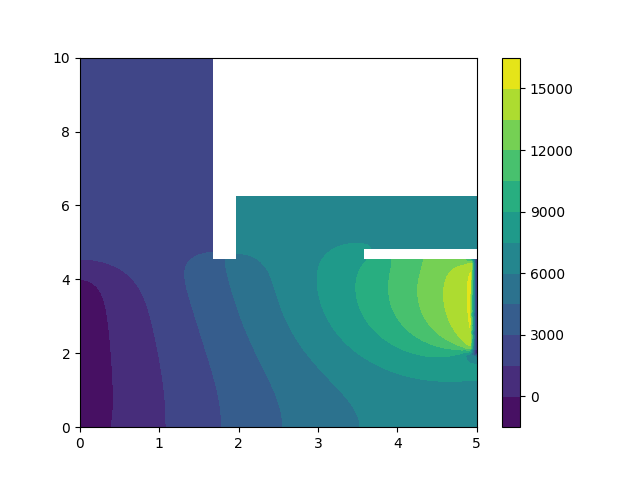
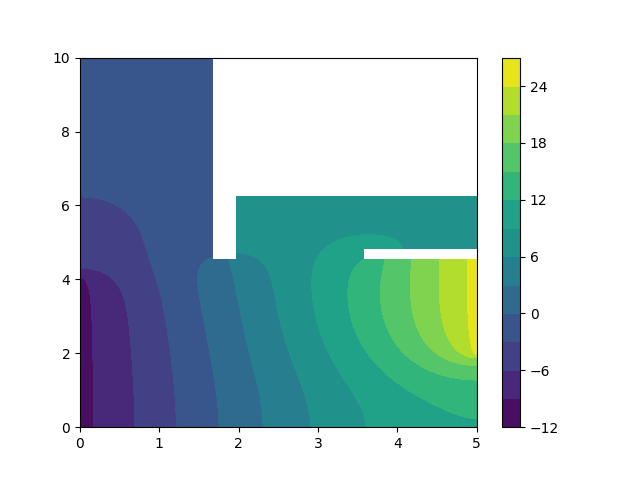
add parser

diff --git a/resolution.py b/resolution.py
@@ -1,5 +1,18 @@
 """
 @credits : Apavou Clément & Zucker Arthur
+
+Usage:
+  resolution.py <name> [options]
+  resolution.py appartement  
+  resolution.py config_1
+  resolution.py config_2
+  resolution.py config_3 
+
+Args: 
+  <name>        nom de la resolution que l'on veut lancer : appartement/config_1/config_2/config_3
+
+Options:
+  -h           Montrer l'en-tête
 """
 
 import gmsh
@@ -9,6 +22,7 @@ from Classe.Matrice import *
 from Classe.triplets import *
 from scipy.sparse.linalg import spsolve
 import matplotlib.pyplot as plt
+import docopt
 
 def resolution(path, save_path):
 
@@ -50,7 +64,7 @@ def resolution(path, save_path):
   U = spsolve(A, B) # solve avec scipy
 
   # Visualisation
-  print("Visualisation en cours ...")
+  print("Construction de la visualisation en cours ...")
   x = [pt.x for pt in msh.points]
   y = [pt.y for pt in msh.points]
   connectivity=[]
@@ -60,12 +74,15 @@ def resolution(path, save_path):
   plt.tricontourf(x, y, connectivity, U, 12)
   plt.colorbar()
   plt.savefig(save_path)
-
+  plt.show()
+  
   gmsh.finalize()
 
-# Appartement de l'énoncé
-resolution(path = "Immobilier/appartement.msh", save_path = "Figures/appartement.png")
+args = docopt.docopt(__doc__)
+name = args['<name>']
 
-# Appartement d'Arthur (3 configurations)
-for i in range(1,3):
-  resolution(path = "Immobilier/appartement_arthur/fichier_msh/config_"+str(i+1)+".msh" , save_path = "Figures/config_"+str(i+1)+".png")
+# Appartement de l'énoncé
+if name == "appartement":
+  resolution(path = "Immobilier/appartement.msh", save_path = "Figures/appartement.png")
+else: # Appartement d'Arthur
+  resolution(path = "Immobilier/appartement_arthur/fichier_msh/"+name+".msh" , save_path = "Figures/"+name+".png")

diff --git a/Classe/Matrice.py b/Classe/Matrice.py
@@ -134,21 +134,19 @@ def Dirichlet(msh, physical_tag, g, T, B):
     Applique la condition de Dirichlet à la matrice B et à la matrice T qui reprèsente A
     dans le système AU = B
     """
-    Indexes_to_nullify = []
+    Indexes_points = []
     with alive_bar(len(msh.segments)) as bar:
         for s in msh.segments:
             if(s.tag == physical_tag):
                 for p in s.p:
-                    Indexes_to_nullify.append(p.id)
+                    Indexes_points.append(p.id)
             bar()
     
-    with alive_bar(len(Indexes_to_nullify)) as bar:
-        for i in Indexes_to_nullify:
+    with alive_bar(len(Indexes_points)) as bar:
+        for i in Indexes_points:
             for indx in range(len(T.data[0])) :
                 if(T.data[1][0][indx] == i):
                     T.data[0][indx] = 0
-                elif(T.data[1][1][indx] == i):
-                    T.data[0][indx] *= g 
             T.append(i,i,1)
             B[i] = g
             bar()

diff --git a/Classe/triplets.py b/Classe/triplets.py
@@ -1,3 +1,7 @@
+"""
+@credits : Apavou Clément & Zucker Arthur
+"""
+
 from scipy.sparse import coo_matrix
 
 class Triplets:

diff --git a/README.md b/README.md
@@ -41,6 +41,7 @@ Les librairies qui vont être installées sont:
 * numpy
 * scipy
 * matplotlib
+* docopt
 
 ##  Énoncé
 
@@ -55,7 +56,12 @@ Une condition de Neumann homogène et deux conditions de Dirichlet hétérogène
 Dans le système AU = B, il n'y aura donc pas de matrice de masse à calculer pour A et pas de méthode de quadrature à faire pour le calcul de B.
 
 ## Utilisation du code
-Pour résoudre le problème il faut lancer le code resolution.py via la commande `python resolution.py`, la figure de la solution sera alors créée dans le repertoire `Figures`.
+Pour résoudre le problème, il faut lancer le code resolution.py via la commande `python resolution.py <name>`, la figure de la solution s'affichera et sera également créée dans le repertoire `Figures` . 
+`name` peut prendre plusieurs valeurs : <br/>
+* appartement
+* config_1
+* config_2
+* config_3
 
 ## Appartement énoncé
 
@@ -92,6 +98,6 @@ Les murs de la sale de bain attenuent la propagation de la chaleur dans tout l'a
 
 Cette configuration juste à côté de la fenêtre est la moins bonne car avoir de la chaleur dans le couloir d'entrée n'est pas vraiment utile. 
 
-### Verdicte
+### Verdict
 
 La configuration 1 semble la meilleure.
